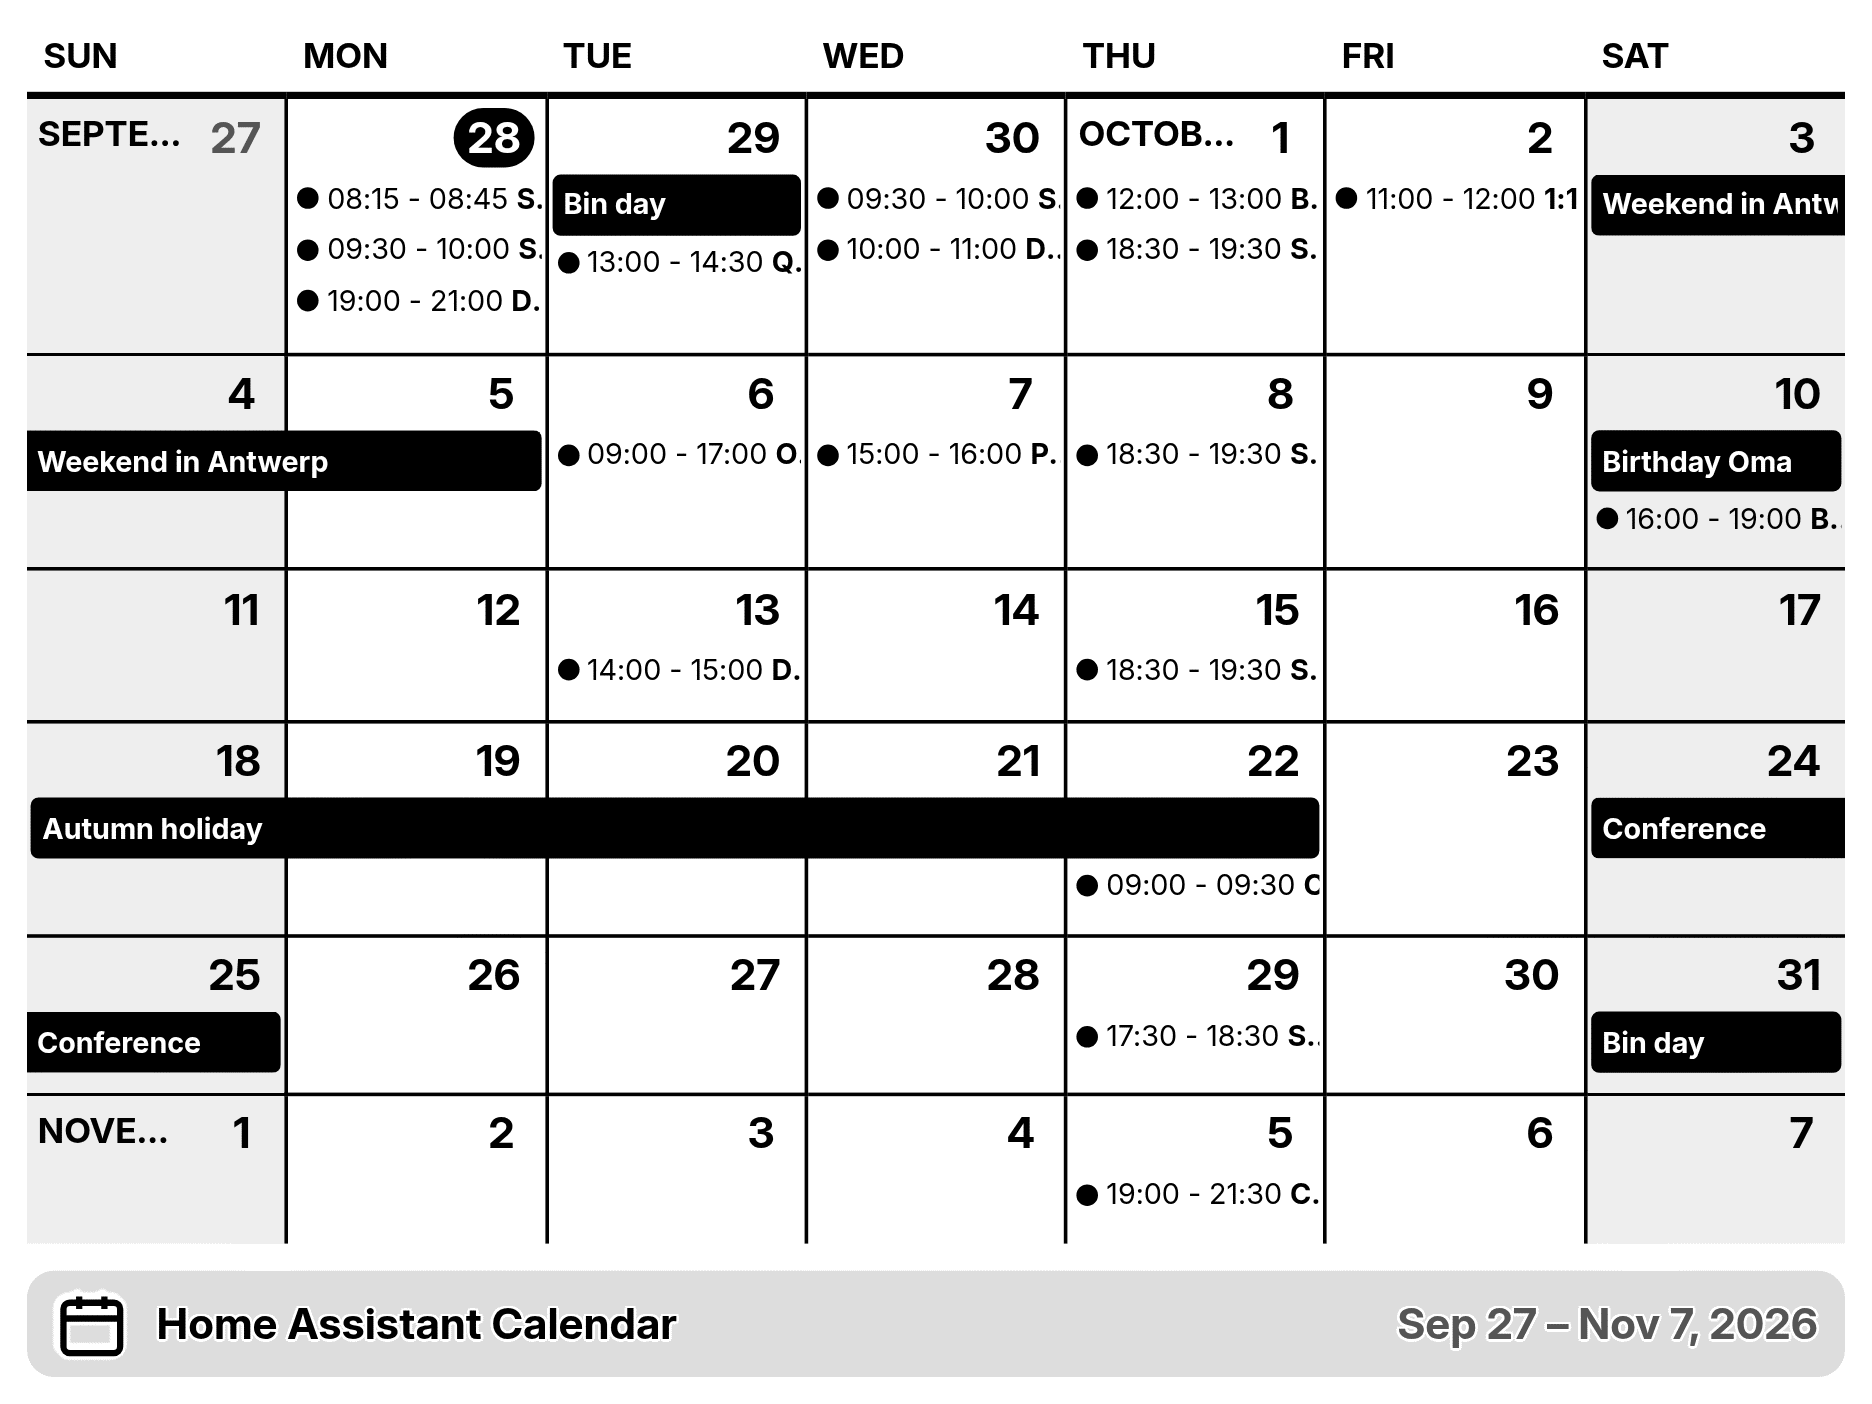
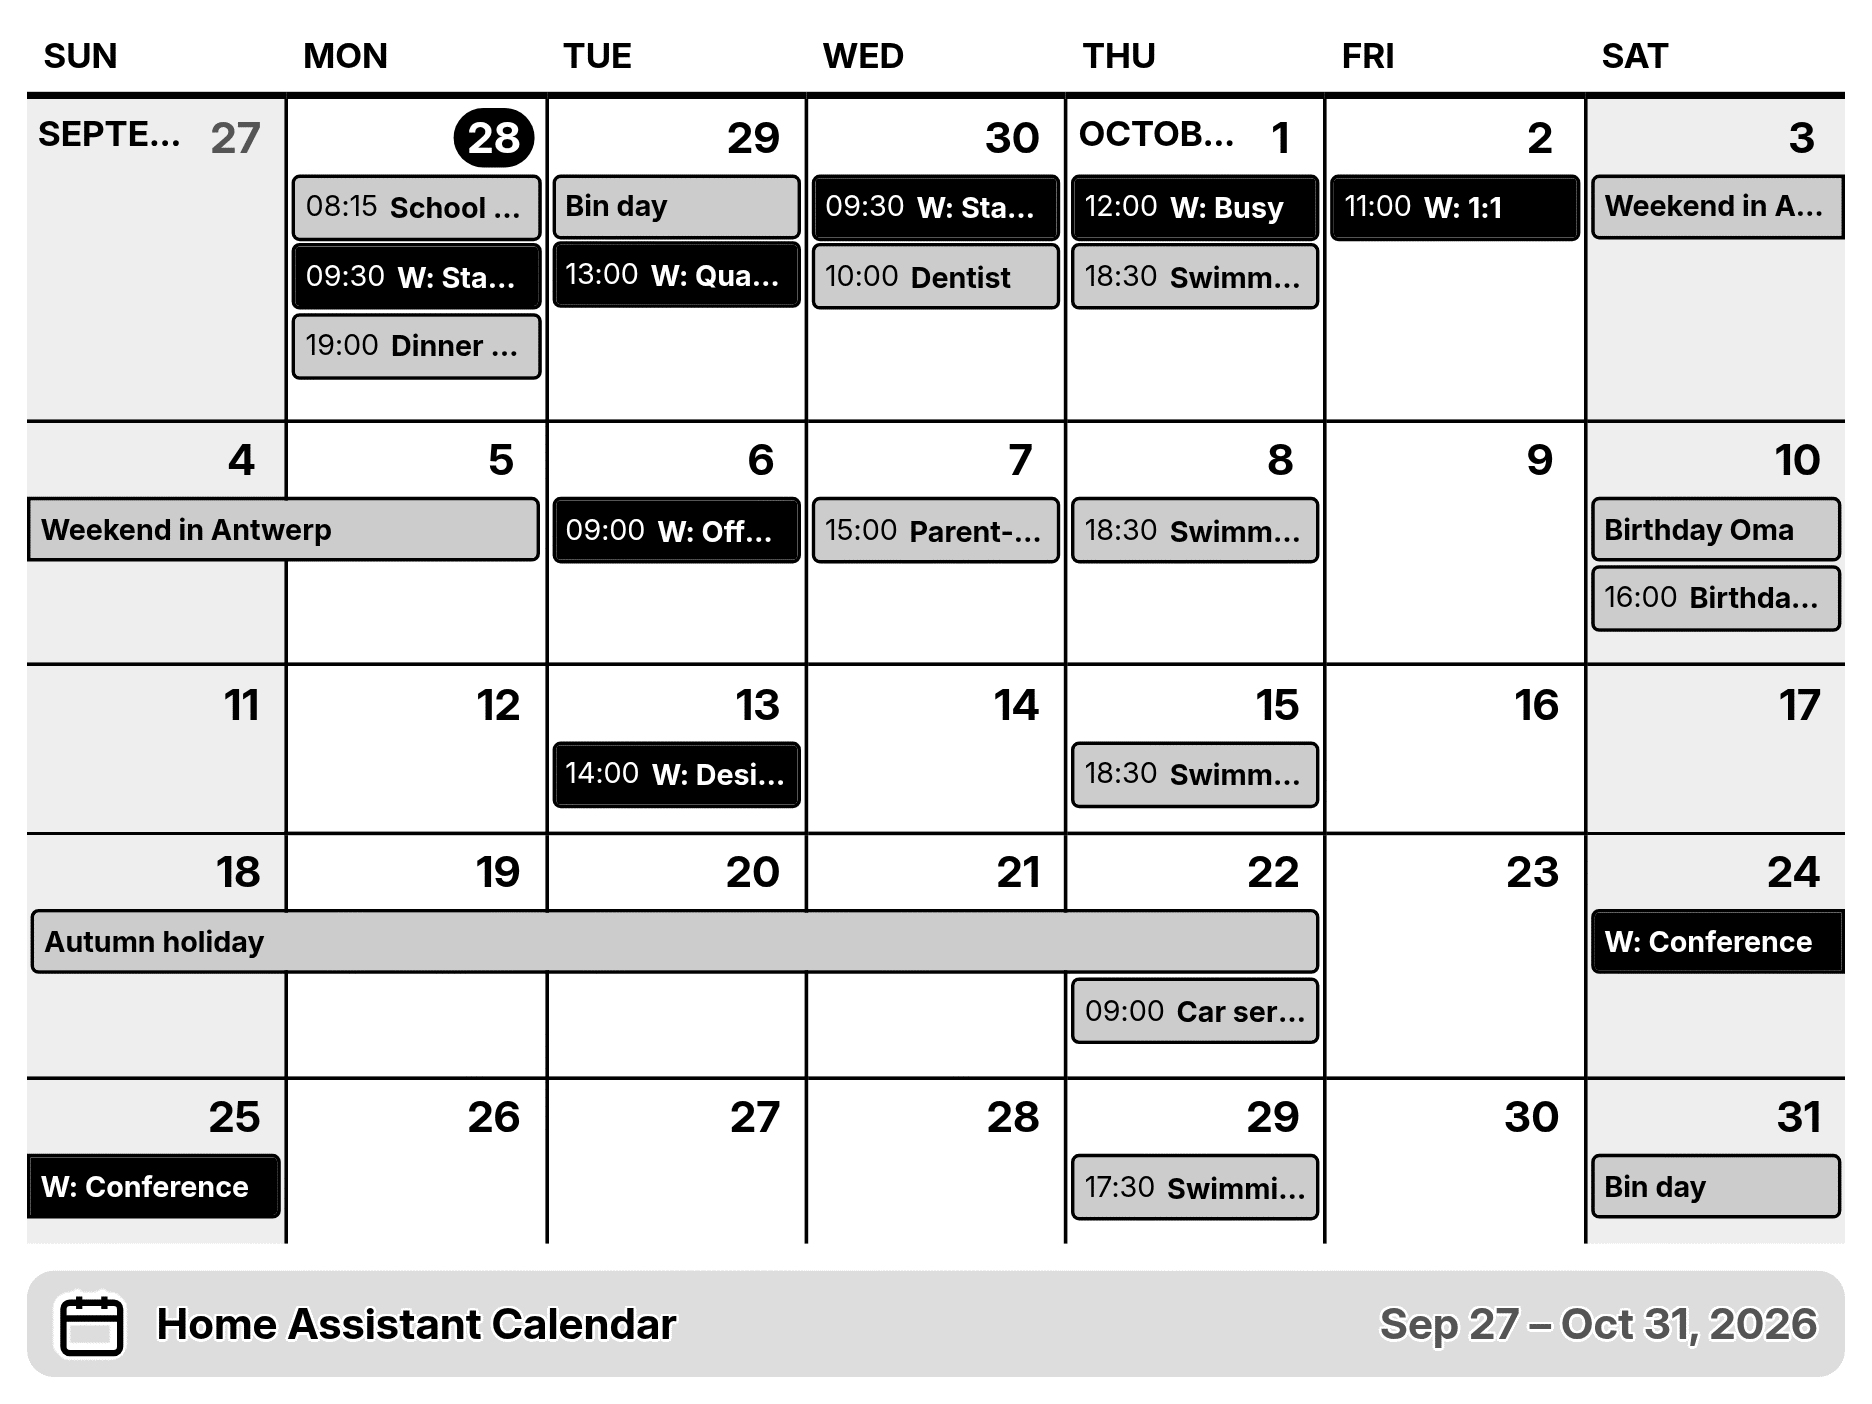
Add per-calendar event colors and title prefixes
"Calendar labels" becomes "Calendar prefixes" (same key), and a new
"Calendar colors" list sets an event background per calendar, both
matched to the calendar entities by position ("-" for none). Colors are
TRMNL palette names, painted with the framework's bg--* classes (solid on
4-bit, dither patterns on 1-/2-bit), or hex. Coloured calendars render
timed events as filled blocks; text is black or white by lightness, with
text-stroke on dithered fills.

Fix a render hang on the TRMNL X: under the framework's screen transform,
measured event heights flipped by a pixel with sub-pixel position, and
FullCalendar's event layout never settled. The rect correction now takes
sizes from offsetWidth/offsetHeight. Also keep month labels clear of week
numbers.

Claude-Session: https://claude.ai/code/session_01NUfQZbey5uqSoJDLA5m21y

Changed region(s): [[0.0, 0.1225, 0.9915, 0.8882], [0.7126, 0.9188, 0.8985, 0.9801], [0.8056, 0.49, 0.8365, 0.5513]]

diff --git a/README.md b/README.md
@@ -91,7 +91,8 @@ place and keeps your settings.
 
 | Setting | Default | Notes |
 |---|---|---|
-| Calendar labels | – | Optional short label per calendar, shown as `Label: Title` |
+| Calendar prefixes | – | Text shown before each event title, per calendar (e.g. `W:`) |
+| Calendar colors | – | Event background per calendar: a TRMNL color name (`black`, `gray-10` … `gray-75`, `red`, `blue-40`, …) or a hex color |
 | Time zone | LaraPaper user time zone | Events are converted to this zone before rendering |
 | Week starts on | Monday | |
 | Advance | Weekly | `Daily` starts the grid at today instead of the start of the week |
@@ -105,7 +106,29 @@ place and keeps your settings.
 | Ignore events containing / titled exactly | – | Same filters as upstream |
 
 The grid shows as many whole weeks (4–6) as fit, like upstream: busy weeks make
-rows taller, so fewer fit.
+rows taller, so fewer fit. In a very busy month the 4th week can be cut off.
+
+### Multiple calendars
+
+List several entities under **Calendar entities**. **Calendar prefixes** and
+**Calendar colors** are matched to them by position: the first prefix/color goes with
+the first entity, and so on. Use `-` for a calendar that should have none. For example:
+
+| Calendar entities | Calendar prefixes | Calendar colors |
+|---|---|---|
+| `calendar.family` | `-` | `gray-65` |
+| `calendar.work` | `W:` | `black` |
+
+- **Prefix**: shown before the title, followed by a space (`W: Standup`).
+- **Color**: fills every event of that calendar, timed ones included, instead of a dot.
+  Text turns black or white depending on how light the color is.
+  - Color names use the framework's classes: solid greys on the TRMNL X (hues fall back
+    to a grey), dither patterns with outlined text on 1-/2-bit screens, and real
+    colors on color panels.
+  - Hex colors are painted as-is. Without dithering, a 1-bit screen snaps them to black
+    or white.
+- Events without a calendar color keep the default look: black all-day blocks and
+  dotted timed events. So give the other calendars a grey if they need to stand out.
 
 ## TRMNL framework
 

diff --git a/UPSTREAM.md b/UPSTREAM.md
@@ -41,10 +41,14 @@ Forked from [usetrmnl/plugins](https://github.com/usetrmnl/plugins), `lib/calend
 - **Title bar**: the framework's `title_bar` with the visible date range replaces
   FullCalendar's `headerToolbar` (`month_header`).
 - **Removed**: time-grid helpers (`trmnlAllDaySlotAuto`, `trmnlSlotBoundsAuto`, the
-  week-view now indicator, `dayHeaders`), the colour options (`colorize_events`,
-  `palette_colors`, `adaptiveEventStroke`), because HA calendars have no colours, and the
+  week-view now indicator, `dayHeaders`), the Google colour options (`colorize_events`,
+  `palette_colors`), replaced by per-calendar colours, and the
   RSVP filter (`ignore_based_on_acceptance?`), because HA doesn't expose attendees.
-- **Added**: optional per-calendar labels, a line above the grid naming any
+- **Colors**: upstream colours events from Google's calendar/event colours
+  (`colorize_events`). HA has none, so each calendar gets a configured colour. Framework
+  colour names go through `bg--*` classes; on 1-/2-bit screens the text gets
+  `text-stroke`, like upstream's `adaptiveEventStroke`.
+- **Added**: optional per-calendar prefixes, a line above the grid naming any
   calendar that failed to load, and the 1-/2-bit grey handling setting (adapted
   styles, or LaraPaper's `image-dither` switch for Floyd–Steinberg dithering).
 - **Settings**: exposed as custom fields (`settings.yml`) and read from
